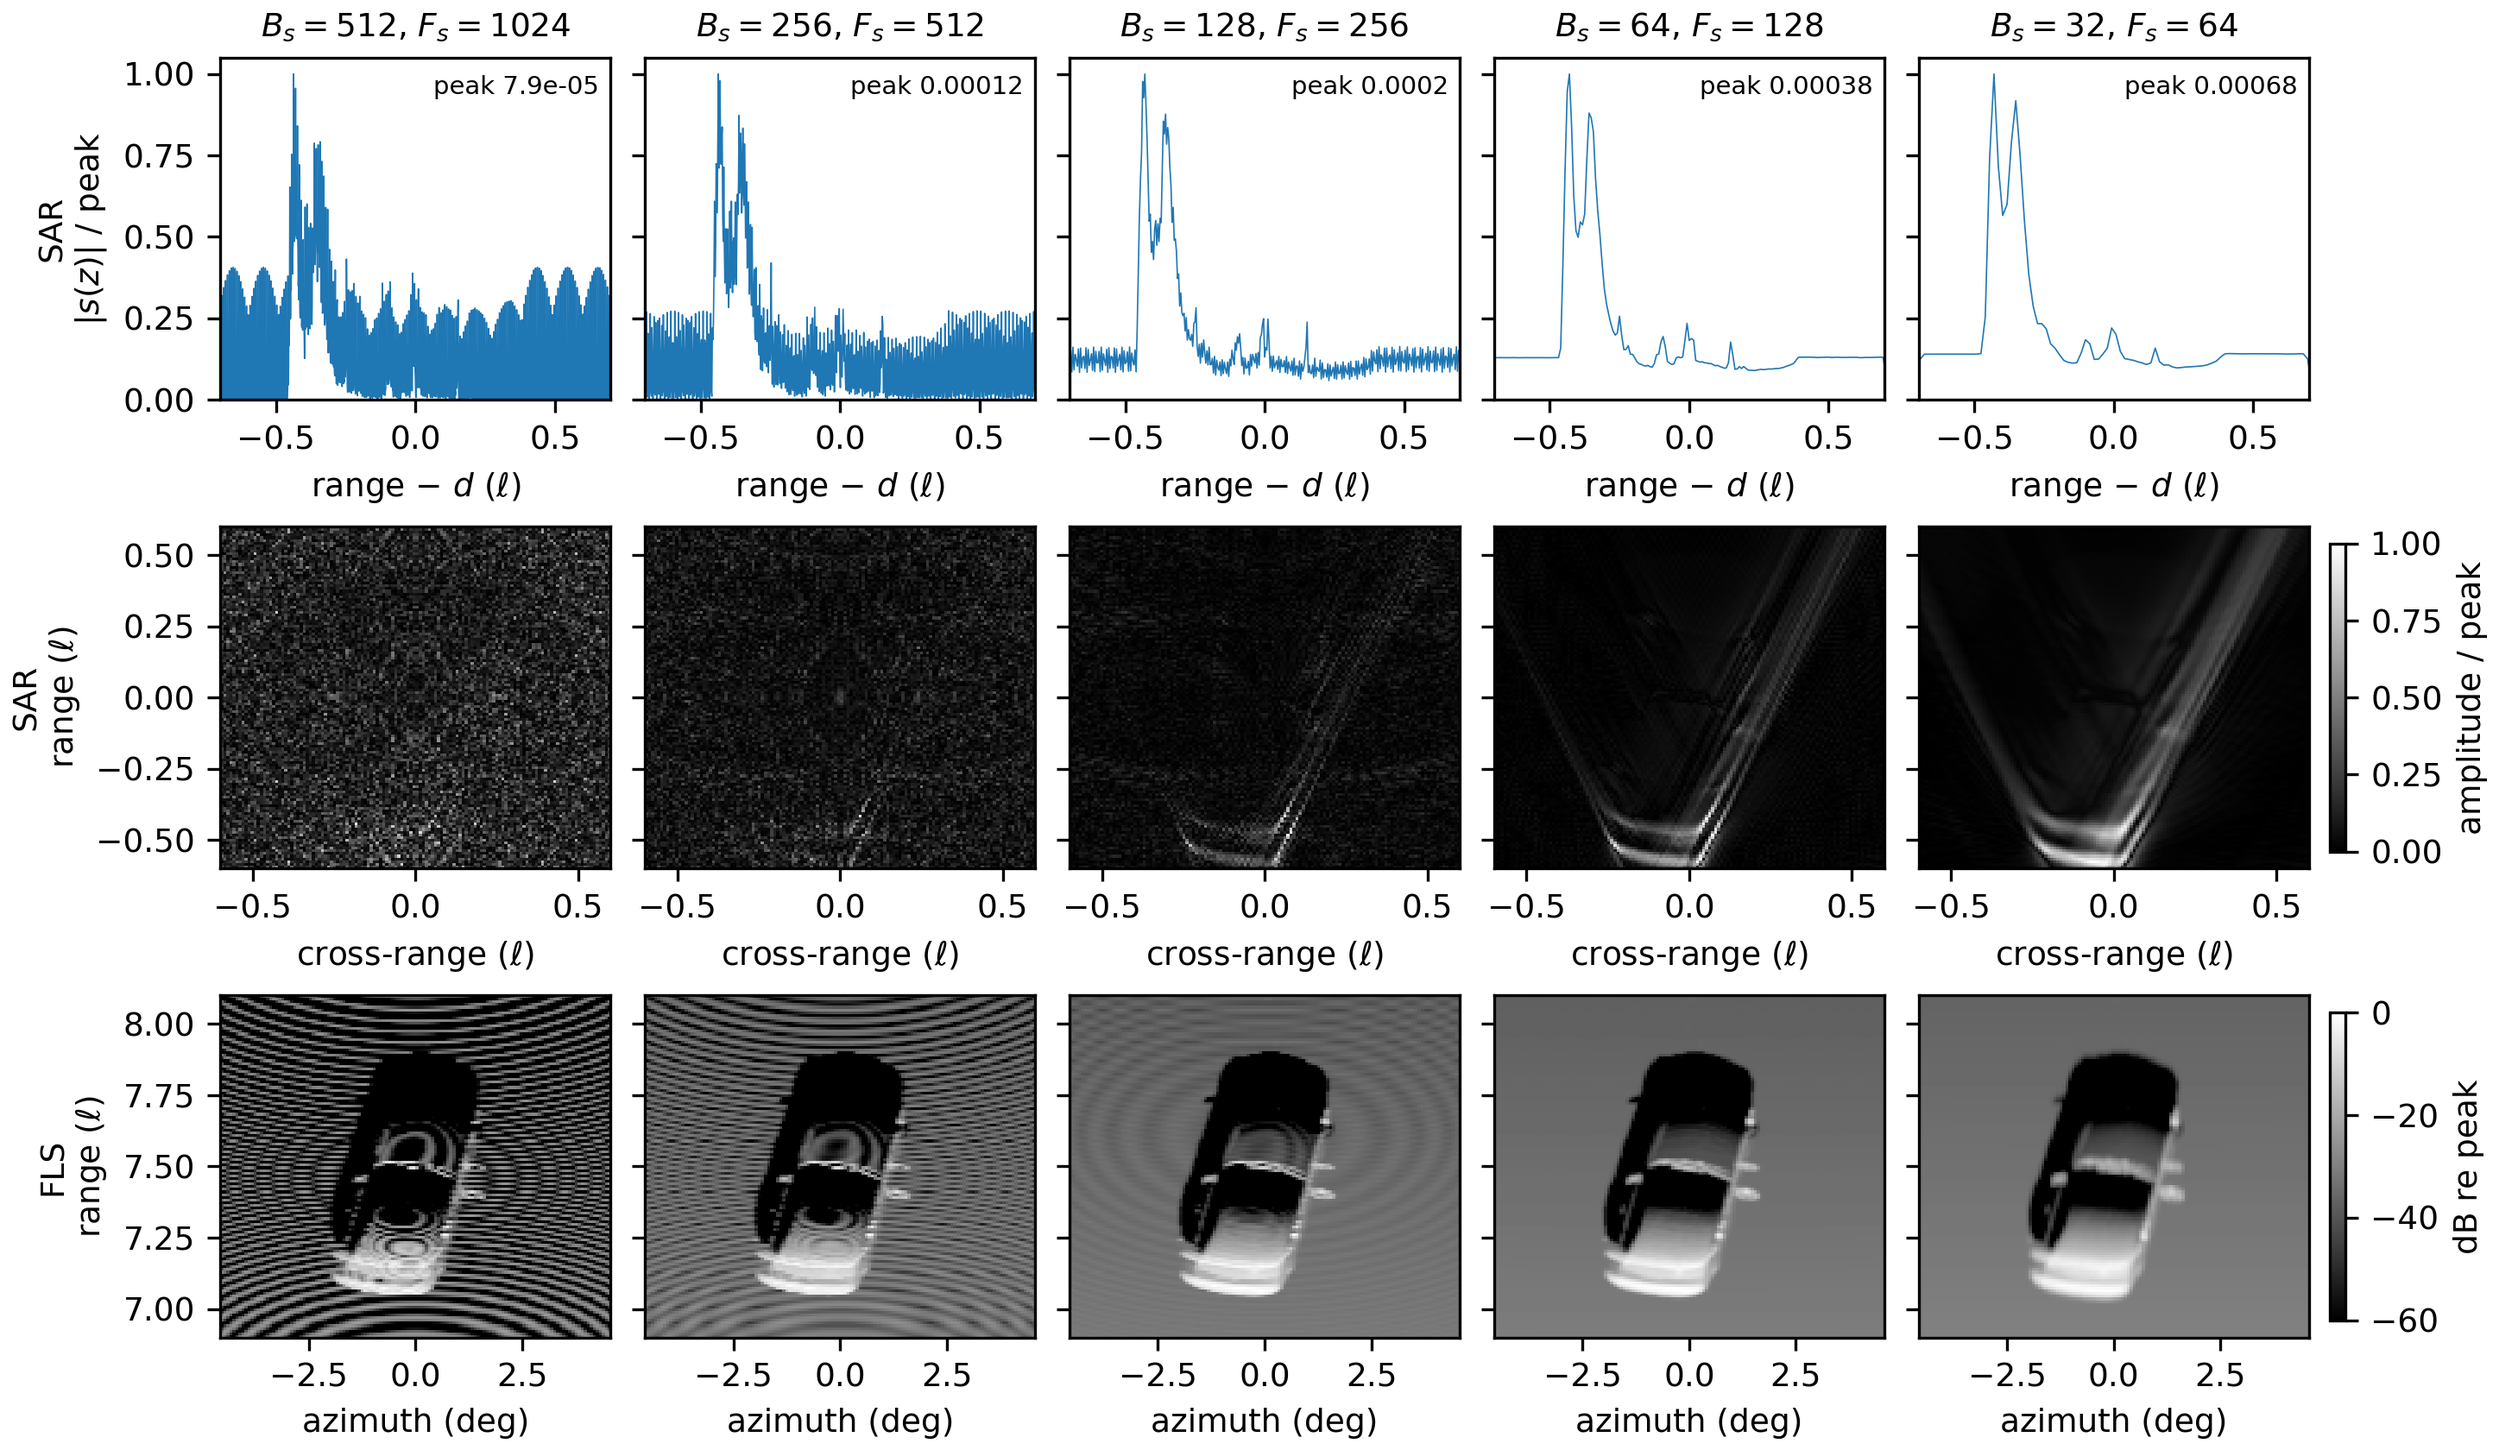
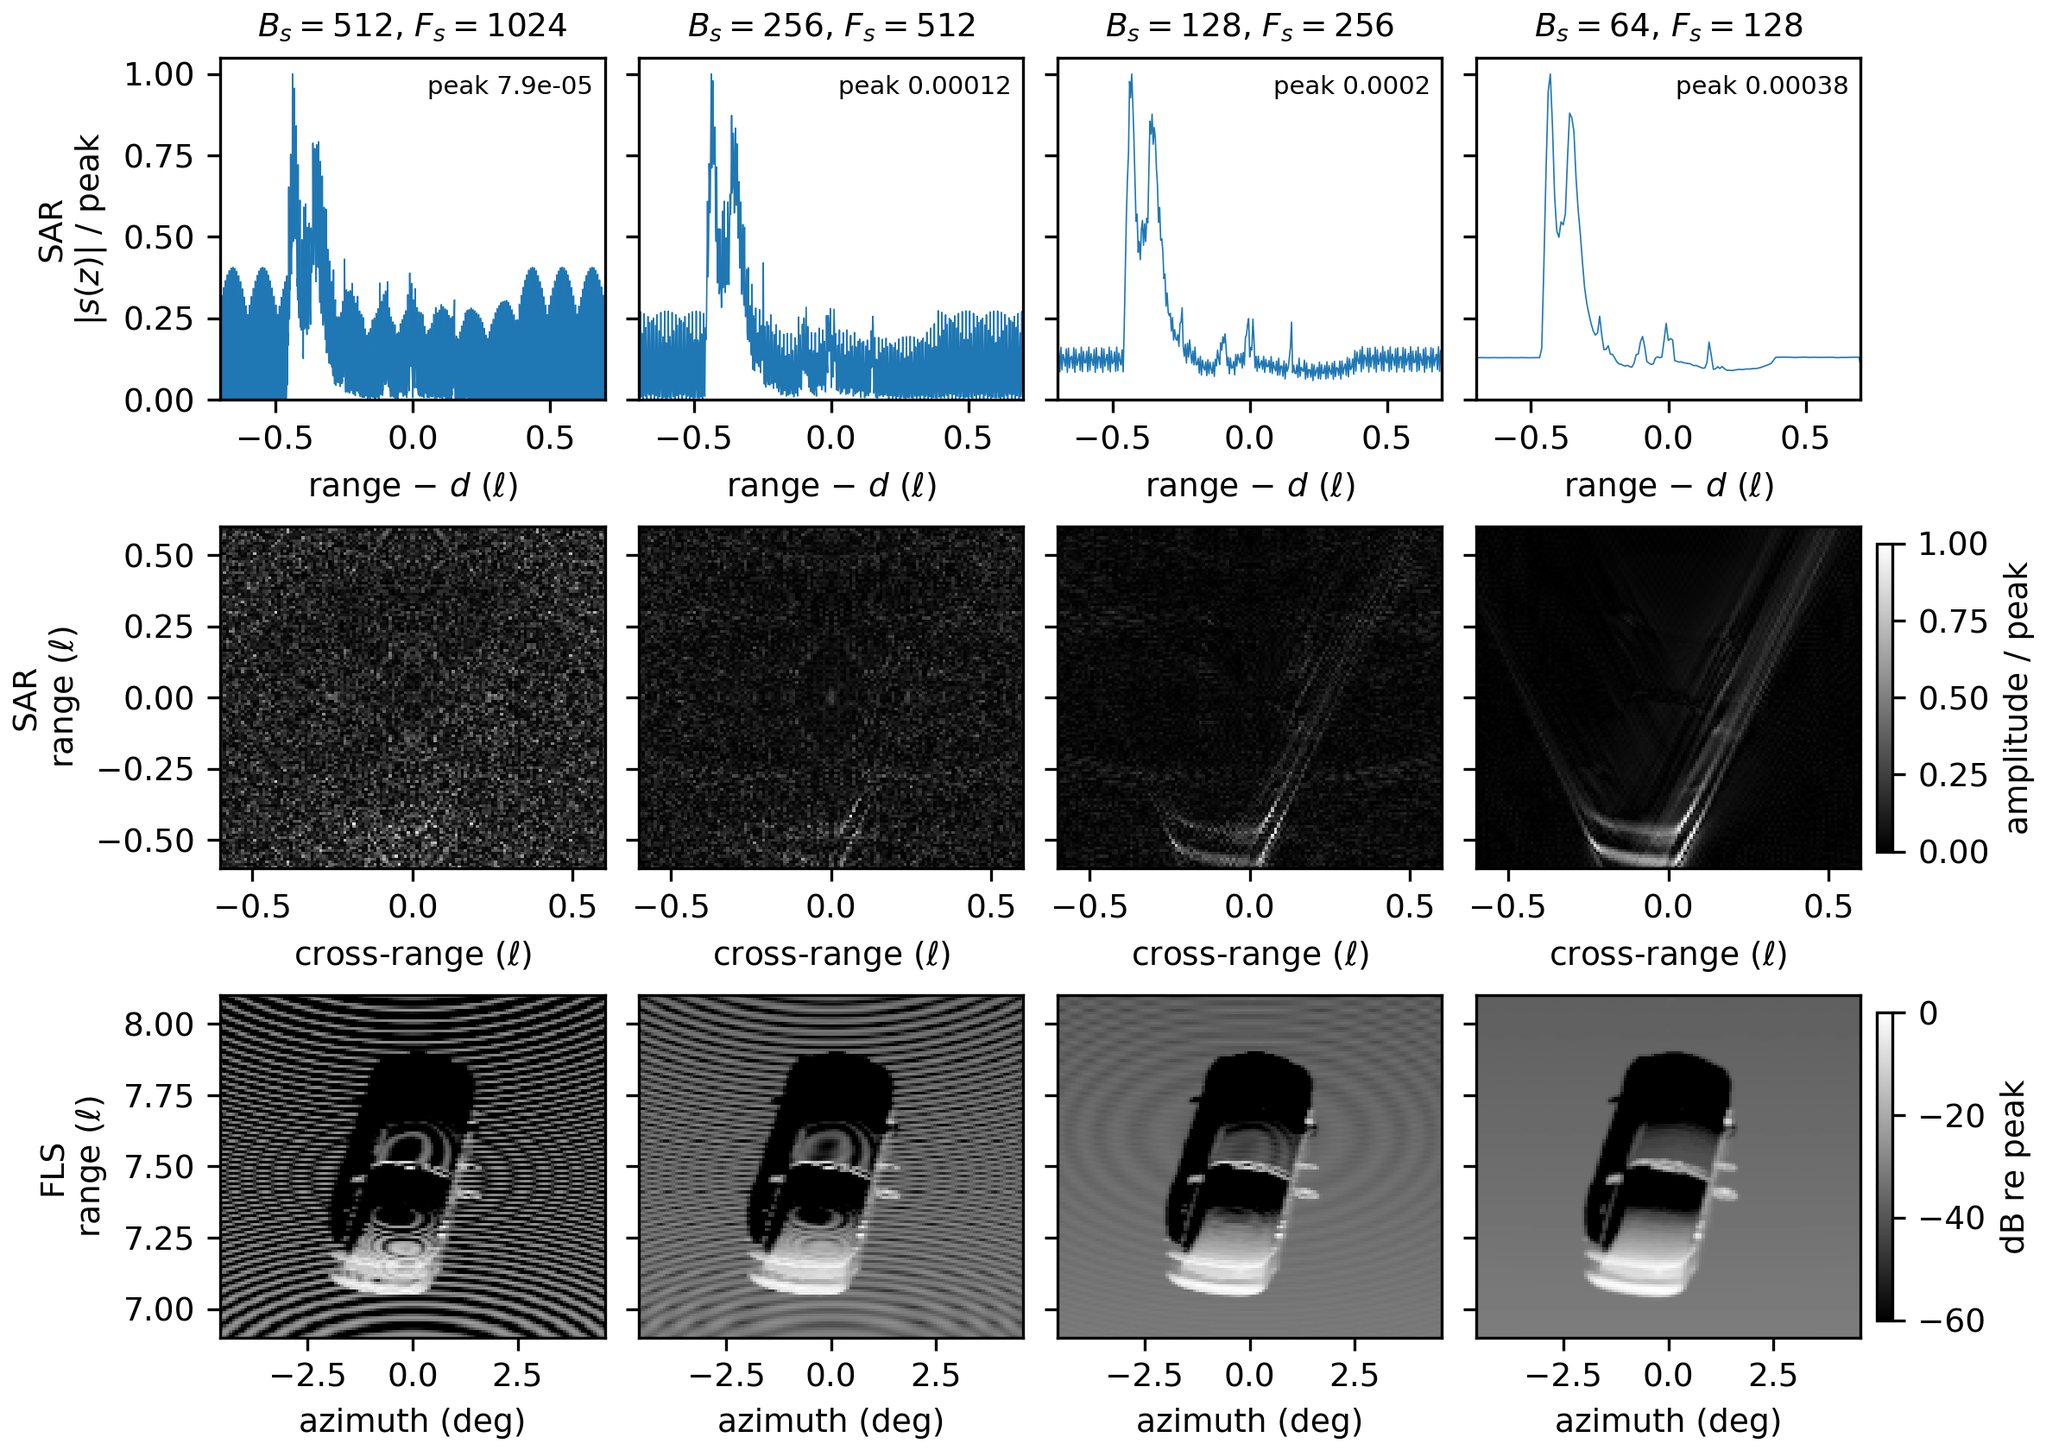
paper: 4-column bw/ray sweeps, ray fig signal only

Changed region(s): [[0.0, 0.0, 0.9992, 0.9905], [0.9055, 0.681, 0.9992, 0.9286], [0.7181, 0.619, 0.7494, 0.65]]

diff --git a/latex/main.tex b/latex/main.tex
@@ -702,10 +702,11 @@ and interposummation low-pass filters it with a pulse whose amplitude full width
 $0.62/B_s$ for the default Gaussian waveform. A pulse that is wide against the range spacing of the
 returns gives a smooth estimate of the continuous response. A narrow one resolves the returns, and
 the gaps between them show up as nulls. In Figure \ref{fig:fsbw}, we lower the spatial bandwidth from
-$B_s = 512$ to $32$ with $F_s = 2B_s$ at the default ray grids. In Figure \ref{fig:raydensity}, we
-hold $B_s = 64$ and scale the rays per side of both the SAR grid and the forward-looking sonar fan
-from $0.25$ to $4$ times their defaults. Each column shows the interposummed signal of the middle SAR
-pulse, the SAR image, and the forward-looking sonar image. Both modalities image the same car from
+$B_s = 512$ to $64$ with $F_s = 2B_s$ at the default ray grids. Each column shows the interposummed
+signal of the middle SAR pulse, the SAR image, and the forward-looking sonar image. We then hold
+$B_s = 64$ and scale the rays per side of both the SAR grid and the forward-looking sonar fan from
+$0.125$ to $4$ times their defaults. Figure \ref{fig:raydensity} shows the signal of the middle SAR
+pulse from $0.125$ to $1$ times the default rays, where it is already smooth. Both modalities image the same car from
 the same pose, \texttt{pose\_num} 000000 at an elevation of $40.6^\circ$, the SAR sensor at the
 pose's distance of $1.3\ell$ and the sonar at $7.5\ell$. All other settings are the defaults of
 Tables \ref{tab:params} and \ref{tab:fls-params}, except that the SAR receiver noise is turned off
@@ -716,7 +717,7 @@ so that its floor does not hide the artifacts.
   \centering
   \includegraphics[width=\fulllength]{figs/fsbw_and_raydensity_fsbw.png}
   \end{adjustwidth}
-  \caption{Lowering the spatial bandwidth $B_s$ from $512$ to $32$, with $F_s = 2B_s$ and the
+  \caption{Lowering the spatial bandwidth $B_s$ from $512$ to $64$, with $F_s = 2B_s$ and the
   default rays. Top: interposummed signal magnitude of the middle SAR pulse against range from the
   sensor distance $d$, normalized to its peak, printed in each panel. Middle: spotlight-mode SAR
   image, normalized to its peak. Bottom: forward-looking sonar image, in dB relative to its peak.
@@ -729,9 +730,11 @@ so that its floor does not hide the artifacts.
   \centering
   \includegraphics[width=\fulllength]{figs/fsbw_and_raydensity_rays.png}
   \end{adjustwidth}
-  \caption{Scaling the rays per side from $0.25$ to $4$ times the defaults at $B_s = 64$,
-  $F_s = 128$: $52$ to $832$ rays per side for SAR, and $88 \times 138$ to $1400 \times 2200$ for the
-  forward-looking sonar fan. Rows as in Figure \ref{fig:fsbw}.}
+  \caption{Scaling the SAR ray grid from $0.125$ to $1$ times the default $208 \times 208$ rays at
+  $B_s = 64$, $F_s = 128$. Interposummed signal magnitude of the middle SAR pulse against range from
+  the sensor distance $d$, normalized to its peak, printed in each panel. Each column has the same
+  ratio of cluster spacing to pulse width as the same column of Figure \ref{fig:fsbw}. SAR receiver
+  noise is off.}
   \label{fig:raydensity}
 \end{figure}
 
@@ -744,12 +747,11 @@ pulse at elevation $\theta$, which is $0.0068\ell$ at the $40.6^\circ$ elevation
 No bandwidth separates the returns within a cluster, since they share a range. Interposummation does,
 however, resolve the gaps between clusters once the pulse is narrower than their spacing (Figure
 \ref{fig:scatter-closeup}b). Over the seafloor window of Figure \ref{fig:scatter-closeup}b, the
-ratio of the largest to the smallest signal sample is $0.0$, $0.0$, $5.6$, and $40$~dB at
-$B_s = 32$, $64$, $128$, and $256$, whose pulses are $0.019$, $0.0097$, $0.0048$, and $0.0024\ell$
-wide. At $B_s = 512$, the signal falls to zero between clusters, and its seafloor becomes a comb with
+ratio of the largest to the smallest signal sample is $0.0$, $5.6$, and $40$~dB at
+$B_s = 64$, $128$, and $256$, whose pulses are $0.0097$, $0.0048$, and $0.0024\ell$ wide. At $B_s = 512$, the signal falls to zero between clusters, and its seafloor becomes a comb with
 one peak per row of the ray grid.
 
-The images follow their signals. At $B_s = 32$ and $64$, the SAR image shows the outline of the car
+The images follow their signals. At $B_s = 64$, the SAR image shows the outline of the car
 over a dark seafloor. At $B_s = 128$ the outline breaks up, and at $256$ and $512$ the car is lost in
 grain. The forward-looking sonar fails the same way along its
 elevation fan. Its seafloor returns spread apart in range as the fan meets the seafloor at ever
@@ -767,8 +769,8 @@ ping, and a row that falls between them is dim along the whole track.
   \caption{(\textbf{a}) Energy-range scatter of the middle SAR pulse at the default
   $208 \times 208$ rays, normalized to its peak, with the windows of (\textbf{b},\textbf{c}) shaded.
   (\textbf{b}) The seafloor returns of (\textbf{a}) as stems, each a cluster of $R_w = 208$
-  coincident returns from one row of the ray grid, under the signal at $B_s = 512$, $128$, and $32$.
-  (\textbf{c}) The seafloor returns at $0.25\times$ rays ($R_w = 52$) under the signal of each ray
+  coincident returns from one row of the ray grid, under the signal at $B_s = 512$, $128$, and $64$.
+  (\textbf{c}) The seafloor returns at $0.125\times$ rays ($R_w = 26$) under the signal of each ray
   grid of Figure \ref{fig:raydensity}, all at $B_s = 64$. The clusters of the denser grids fall
   between the stems drawn. Each signal is normalized to its peak in the window.}
   \label{fig:scatter-closeup}
@@ -776,10 +778,11 @@ ping, and a row that falls between them is dim along the whole track.
 
 Raising the ray density closes the gaps from the other side: it moves the clusters together
 instead of widening the pulse. Doubling the rays per side halves $\Delta$, and with it the cluster
-spacing, so it has the same effect as halving $B_s$. At $B_s = 64$, the seafloor ripple of the
-middle SAR pulse is $41$~dB at $0.25\times$ rays and $5.7$~dB at $0.5\times$, against $40$ and
-$5.6$~dB at $B_s = 256$ and $128$ with the default rays (Figure \ref{fig:scatter-closeup}c shows the
-signals). On the seafloor on the far side of the car, the standard deviation of the forward-looking sonar image is
+spacing, so it has the same effect as halving $B_s$. At $B_s = 64$, the signal of the middle SAR
+pulse falls to zero between clusters at $0.125\times$ rays, as it does at $B_s = 512$, and its
+seafloor ripple is $41$~dB at $0.25\times$ rays and $5.7$~dB at $0.5\times$, against $40$ and
+$5.6$~dB at $B_s = 256$ and $128$ with the default rays (Figures \ref{fig:raydensity} and
+\ref{fig:scatter-closeup}c). On the seafloor on the far side of the car, the standard deviation of the forward-looking sonar image is
 $9.6$ and $1.6$~dB at $0.25\times$ and $0.5\times$ rays, against $8.7$ and $1.5$~dB at
 $B_s = 256$ and $128$ with the default fan. From $1\times$ rays on, both
 signals are smooth, and the sonar's rings are gone.

diff --git a/fsbw_and_raydensity_exp.py b/fsbw_and_raydensity_exp.py
@@ -4,7 +4,7 @@ sonar image as the spatial bandwidth falls, and as the ray grid densifies, plus 
 the SAR energy-range scatter under the signal it is interposummed into.
 
   fsbw_and_raydensity_fsbw.png      B_s falling over BW_VALS, F_s = 2 B_s, baseline rays
-  fsbw_and_raydensity_rays.png      rays per side x RAY_SCALES, at B_s = RAY_BW
+  fsbw_and_raydensity_rays.png      SAR signal only, rays per side x RAY_SCALES[:RAY_COLS], at B_s = RAY_BW
   fsbw_and_raydensity_scatters.png  (a) the middle pulse's energy-range scatter, (b) its zoom
                                     under the signal at CLOSEUP_BWS, (c) the sparsest grid's
                                     scatters under the signal of every grid at RAY_BW
@@ -37,10 +37,11 @@ from render_images import _find_split_dir, sar_render_image
 from sar_paper_figures import SAR_PAPER_BASELINE
 
 
-BW_VALS     = (512, 256, 128, 64, 32)  # falling, so the panels clear up left to right
+BW_VALS     = (512, 256, 128, 64)      # falling, so the panels clear up left to right
 RAY_BW      = 64                       # the ray sweep's B_s; the track ends' sparse rows still ring here
-RAY_SCALES  = (0.25, 0.5, 1, 2, 4)     # rays per side, relative to each baseline
-CLOSEUP_BWS = (512, 128, 32)           # signals drawn over the scatter zoom
+RAY_SCALES  = (0.125, 0.25, 0.5, 1, 2, 4)  # rays per side, relative to each baseline
+RAY_COLS    = 4                        # columns drawn; 2x and 4x only feed the paper's SAR image numbers
+CLOSEUP_BWS = (512, 128, 64)           # signals drawn over the scatter zoom
 ZOOM        = (-0.66, -0.625)          # seafloor short of the car, as range - sensor distance
 RAY_ZOOM    = (-0.70, -0.47)           # wider, to hold several of the sparsest grid's clusters
 SAR_OVERRIDES = dict(snr_db=None)
@@ -63,7 +64,7 @@ def _columns():
         n_az  = round(scale * FLS_PAPER_BASELINE['num_ray_width'])
         n_el  = round(scale * FLS_PAPER_BASELINE['num_ray_height'])
         bw = dict(spatial_bw=RAY_BW, spatial_fs=2 * RAY_BW)
-        rays.append(('rays%g' % scale, r'$%g\times$ rays' % scale,
+        rays.append(('rays%g' % scale, r'$%d \times %d$ rays' % (n_sar, n_sar),
                      dict(bw, n_ray_width=n_sar, n_ray_height=n_sar),
                      dict(bw, num_ray_width=n_az, num_ray_height=n_el)))
     return dict(fsbw=fsbw, rays=rays)
@@ -150,34 +151,38 @@ def _colorbar_label(display):
     return 'dB re peak' if display['compression'] == 'db' else 'amplitude / peak'
 
 
-def save_sweep_figure(sweep, cols, path):
-    '''Rows: SAR signal, SAR image, FLS image. One column per sweep value.'''
+def save_sweep_figure(sweep, cols, path, images=True):
+    '''Rows: SAR signal, SAR image, FLS image, or the signal alone. One column per sweep value.'''
     n = len(cols)
     sar_display, fls_display = _display(SAR_PAPER_BASELINE), _display(FLS_PAPER_BASELINE)
     with plt.rc_context({'font.size': FONT_SIZE}):
-        fig, axes = plt.subplots(3, n, figsize=(1.75 * n + 0.9, 5.6), squeeze=False,
-                                 layout='constrained')
+        fig, axes = plt.subplots(3 if images else 1, n, figsize=(1.75 * n + 0.9, 5.6 if images else 2.1),
+                                 squeeze=False, layout='constrained')
         for j, (name, title, _, _) in enumerate(cols):
-            sar, fls = load(sweep, name, 'sar'), load(sweep, name, 'fls')
-            w, h = sar['plane']
+            sar = load(sweep, name, 'sar')
             _draw_signal(axes[0, j], sar)
+            axes[0, j].set_title(title, fontsize=FONT_SIZE)
+            axes[0, j].set_xlabel(r'range $-$ $d$ ($\ell$)')
+            if j > 0:
+                for ax in axes[:, j]:
+                    ax.set_yticklabels([])
+            if not images:
+                continue
+            fls = load(sweep, name, 'fls')
+            w, h = sar['plane']
             sar_im = _draw_image(axes[1, j], sar['image'], (-w / 2, w / 2, -h / 2, h / 2), 'upper',
                                  sar_display)
             a, r = fls['ping_azimuths'], fls['row_ranges']
             fls_im = _draw_image(axes[2, j], fls['image'], (a[0], a[-1], r[-1], r[0]), 'upper',
                                  fls_display)
-            axes[0, j].set_title(title, fontsize=FONT_SIZE)
-            axes[0, j].set_xlabel(r'range $-$ $d$ ($\ell$)')
             axes[1, j].set_xlabel(r'cross-range ($\ell$)')
             axes[2, j].set_xlabel('azimuth (deg)')
-            if j > 0:
-                for ax in axes[:, j]:
-                    ax.set_yticklabels([])
         axes[0, 0].set_ylabel('SAR\n' + r'$|s(z)|$ / peak')
-        axes[1, 0].set_ylabel('SAR\n' + r'range ($\ell$)')
-        axes[2, 0].set_ylabel('FLS\n' + r'range ($\ell$)')
-        for row, im, display in ((1, sar_im, sar_display), (2, fls_im, fls_display)):
-            fig.colorbar(im, ax=axes[row, :], label=_colorbar_label(display), shrink=0.9, pad=0.01)
+        if images:
+            axes[1, 0].set_ylabel('SAR\n' + r'range ($\ell$)')
+            axes[2, 0].set_ylabel('FLS\n' + r'range ($\ell$)')
+            for row, im, display in ((1, sar_im, sar_display), (2, fls_im, fls_display)):
+                fig.colorbar(im, ax=axes[row, :], label=_colorbar_label(display), shrink=0.9, pad=0.01)
         fig.savefig(path, dpi=300)
         plt.close(fig)
     print('Saved: %s' % path)
@@ -202,7 +207,7 @@ def _draw_zoom(ax, sar, signals, labels, zoom, scatter_label):
 
 
 def save_scatter_figure(cols, path):
-    fsbw, rays = cols['fsbw'], cols['rays']
+    fsbw, rays = cols['fsbw'], cols['rays'][:RAY_COLS]
     base = load('fsbw', fsbw[0][0], 'sar')
     d, h = float(base['sensor_distance']), float(base['half_window'])
     with plt.rc_context({'font.size': FONT_SIZE}):
@@ -231,8 +236,8 @@ def save_scatter_figure(cols, path):
 
         # (c) the sparsest grid under the ray sweep's signals, all at RAY_BW
         sparse = load('rays', rays[0][0], 'sar')
-        _draw_zoom(axes[2], sparse, [load('rays', name, 'sar') for name, _, _, _ in rays],
-                   [title for _, title, _, _ in rays], RAY_ZOOM,
+        grids = [load('rays', name, 'sar') for name, _, _, _ in rays]
+        _draw_zoom(axes[2], sparse, grids, [r'$%d^2$ rays' % g['n_ray_width'] for g in grids], RAY_ZOOM,
                    r'$R_w = %d$' % sparse['n_ray_width'])
 
         for ax, letter in zip(axes, 'abc'):
@@ -252,8 +257,9 @@ def main():
     columns = _columns()
     if not args.replot:
         render_all(columns)
-    for sweep, cols in columns.items():
-        save_sweep_figure(sweep, cols, os.path.join(OUTPUT_DIR, 'fsbw_and_raydensity_%s.png' % sweep))
+    save_sweep_figure('fsbw', columns['fsbw'], os.path.join(OUTPUT_DIR, 'fsbw_and_raydensity_fsbw.png'))
+    save_sweep_figure('rays', columns['rays'][:RAY_COLS],
+                      os.path.join(OUTPUT_DIR, 'fsbw_and_raydensity_rays.png'), images=False)
     save_scatter_figure(columns, os.path.join(OUTPUT_DIR, 'fsbw_and_raydensity_scatters.png'))
 
 
